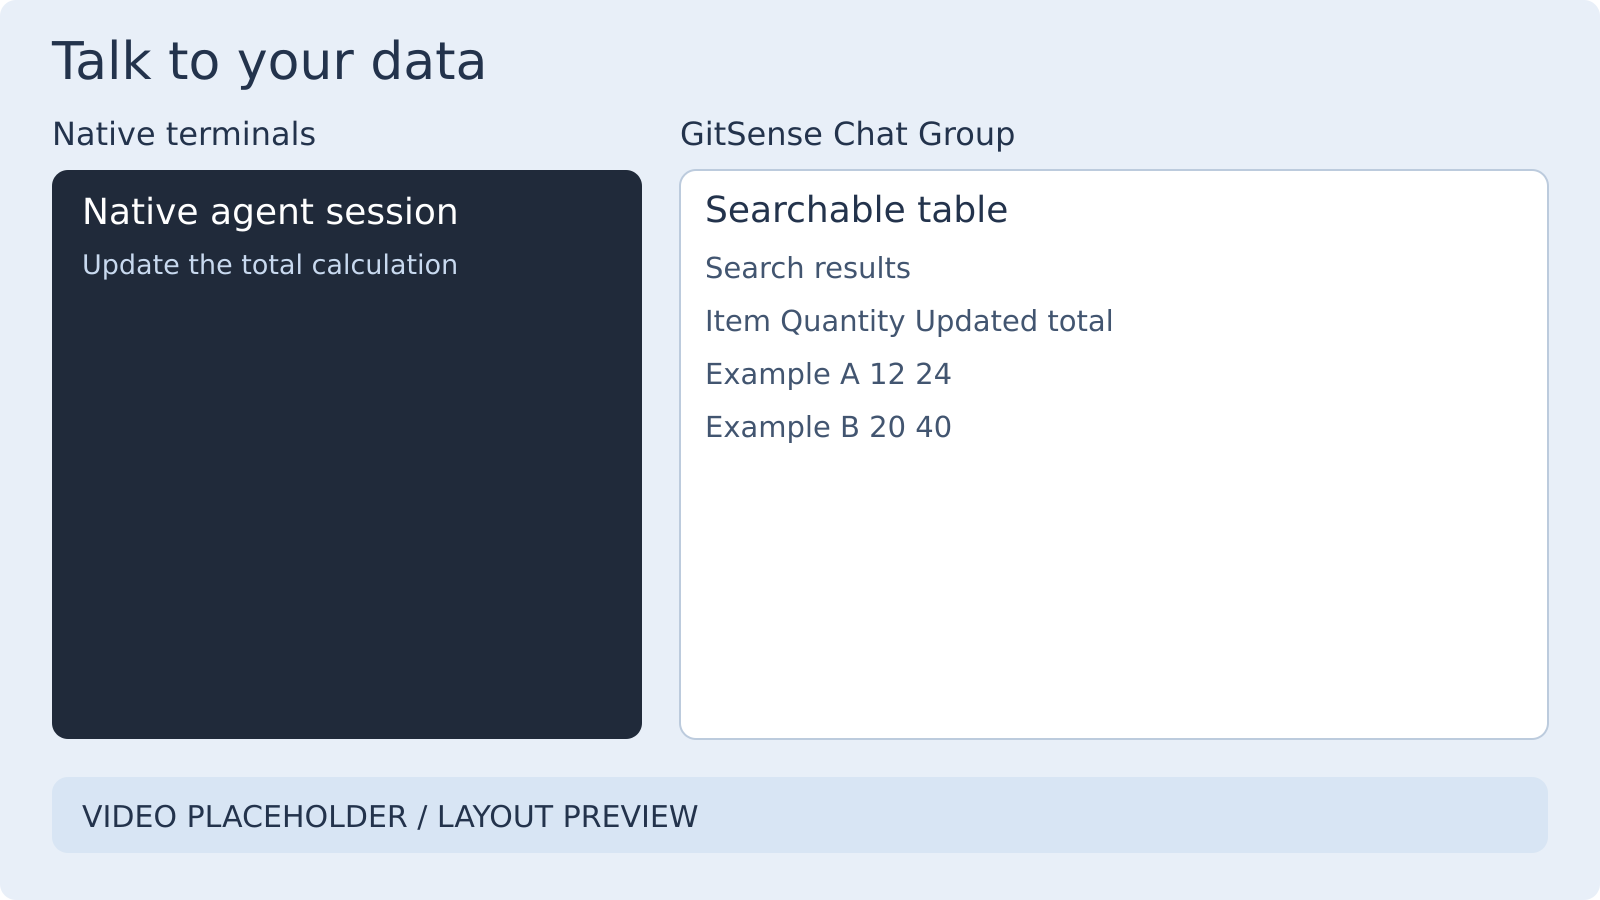
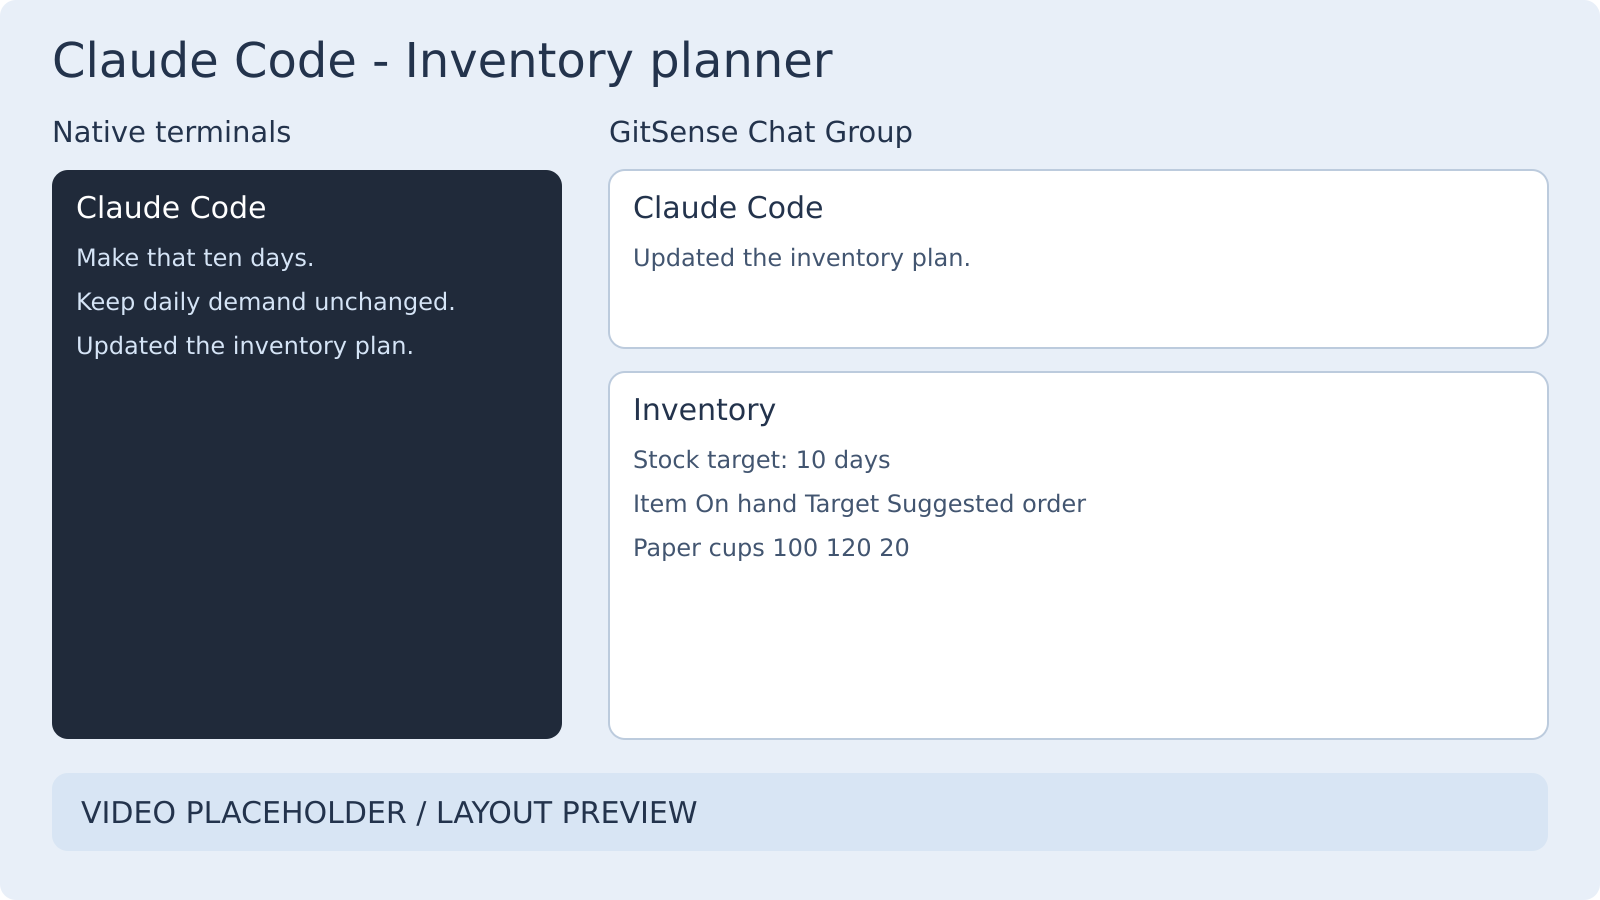
Show Claude Code and Codex collaboration demos

diff --git a/README-v2.md b/README-v2.md
@@ -32,33 +32,27 @@ You can also [build the CLI from source](https://github.com/gitsense/gsc-cli). S
 
 ## Same agents. More ways to work together.
 
-Bring Claude Code, Codex, and OpenCode into one Group, a shared space in GitSense Chat. The agents stay in their own terminals. In Chat, you can look through what they share and make choices for them to read when you're ready.
+Bring Claude Code and Codex into one Group, a shared space in GitSense Chat. Your agents stay in their own terminals. Their replies also appear in Chat, alongside the tables, notes, and diffs you work with together.
 
-<img src="assets/readme-v2/work-together-overview-placeholder.png" alt="Layout preview: Claude Code, Codex, and OpenCode terminals on the left, with a table above a checklist and diff in GitSense Chat on the right." width="100%">
+<img src="assets/readme-v2/work-together-overview-placeholder.png" alt="Layout preview: Claude Code and Codex in their native terminals on the left. In the Group on the right, Claude Code's mirrored reply sits beside an inventory table in the top row, and Codex's mirrored reply sits beside a file checklist and diff in the row below." width="100%">
 
 *Video placeholders. Recordings to come.*
 
 <table>
   <tr>
     <td width="38%" valign="middle">
-      <h3>Talk to your data</h3>
-      <p>Ask your agent to change how a total is calculated, then check the updated column in Chat. The agent can share the table without printing every row in its reply.</p>
+      <h3>Claude Code - Inventory planner</h3>
+      <p>Ask Claude Code to plan for seven days of stock, then say, "Make that ten days. Keep the daily-demand estimates unchanged." Claude reruns the calculation. You can check what needs reordering in the same table card without it printing every row in its reply.</p>
     </td>
-    <td width="62%"><img src="assets/readme-v2/work-together-table-placeholder.png" alt="Video placeholder: A terminal request to update a calculation beside the updated table in Chat." width="100%"></td>
+    <td width="62%"><img src="assets/readme-v2/work-together-table-placeholder.png" alt="Video placeholder: Claude Code gets a request to plan for ten days of stock, and the inventory card shows the recalculated quantities." width="100%"></td>
   </tr>
   <tr>
     <td width="38%" valign="middle">
-      <h3>Type less. Answer more.</h3>
-      <p>Pick one option or check several in a Notes card. Change your choices as you go. When you're ready, tell the same agent in its terminal, "Read my answers."</p>
+      <h3>Codex - Code reviewer</h3>
+      <p>Check the files you want to review and choose Latest commit or Whole branch for each. Ask Codex to read your choices and show the changes. Change the scope or select another file, then ask Codex to update the same diff card.</p>
+      <p>Use the diff menu to copy a command or open the comparison in your editor, depending on your setup.</p>
     </td>
-    <td width="62%"><img src="assets/readme-v2/work-together-choices-placeholder.png" alt="Video placeholder: Saved choices in a Notes card beside the user's request to read them in the terminal." width="100%"></td>
-  </tr>
-  <tr>
-    <td width="38%" valign="middle">
-      <h3>Review a diff with your own tools</h3>
-      <p>Ask what changed and inspect the diff in Chat. Use the card's diff menu to copy a command or open the comparison in your editor, depending on your setup.</p>
-    </td>
-    <td width="62%"><img src="assets/readme-v2/work-together-diff-placeholder.png" alt="Video placeholder: A diff in Chat with the card's diff menu open." width="100%"></td>
+    <td width="62%"><img src="assets/readme-v2/work-together-diff-placeholder.png" alt="Video placeholder: Codex uses saved file and scope choices from a checklist to update the diff card for hello.test.js." width="100%"></td>
   </tr>
 </table>
 

diff --git a/README.md b/README.md
@@ -32,33 +32,27 @@ You can also [build the CLI from source](https://github.com/gitsense/gsc-cli). S
 
 ## Same agents. More ways to work together.
 
-Bring Claude Code, Codex, and OpenCode into one Group, a shared space in GitSense Chat. The agents stay in their own terminals. In Chat, you can look through what they share and make choices for them to read when you're ready.
+Bring Claude Code and Codex into one Group, a shared space in GitSense Chat. Your agents stay in their own terminals. Their replies also appear in Chat, alongside the tables, notes, and diffs you work with together.
 
-<img src="assets/readme-v2/work-together-overview-placeholder.png" alt="Layout preview: Claude Code, Codex, and OpenCode terminals on the left, with a table above a checklist and diff in GitSense Chat on the right." width="100%">
+<img src="assets/readme-v2/work-together-overview-placeholder.png" alt="Layout preview: Claude Code and Codex in their native terminals on the left. In the Group on the right, Claude Code's mirrored reply sits beside an inventory table in the top row, and Codex's mirrored reply sits beside a file checklist and diff in the row below." width="100%">
 
 *Video placeholders. Recordings to come.*
 
 <table>
   <tr>
     <td width="38%" valign="middle">
-      <h3>Talk to your data</h3>
-      <p>Ask your agent to change how a total is calculated, then check the updated column in Chat. The agent can share the table without printing every row in its reply.</p>
+      <h3>Claude Code - Inventory planner</h3>
+      <p>Ask Claude Code to plan for seven days of stock, then say, "Make that ten days. Keep the daily-demand estimates unchanged." Claude reruns the calculation. You can check what needs reordering in the same table card without it printing every row in its reply.</p>
     </td>
-    <td width="62%"><img src="assets/readme-v2/work-together-table-placeholder.png" alt="Video placeholder: A terminal request to update a calculation beside the updated table in Chat." width="100%"></td>
+    <td width="62%"><img src="assets/readme-v2/work-together-table-placeholder.png" alt="Video placeholder: Claude Code gets a request to plan for ten days of stock, and the inventory card shows the recalculated quantities." width="100%"></td>
   </tr>
   <tr>
     <td width="38%" valign="middle">
-      <h3>Type less. Answer more.</h3>
-      <p>Pick one option or check several in a Notes card. Change your choices as you go. When you're ready, tell the same agent in its terminal, "Read my answers."</p>
+      <h3>Codex - Code reviewer</h3>
+      <p>Check the files you want to review and choose Latest commit or Whole branch for each. Ask Codex to read your choices and show the changes. Change the scope or select another file, then ask Codex to update the same diff card.</p>
+      <p>Use the diff menu to copy a command or open the comparison in your editor, depending on your setup.</p>
     </td>
-    <td width="62%"><img src="assets/readme-v2/work-together-choices-placeholder.png" alt="Video placeholder: Saved choices in a Notes card beside the user's request to read them in the terminal." width="100%"></td>
-  </tr>
-  <tr>
-    <td width="38%" valign="middle">
-      <h3>Review a diff with your own tools</h3>
-      <p>Ask what changed and inspect the diff in Chat. Use the card's diff menu to copy a command or open the comparison in your editor, depending on your setup.</p>
-    </td>
-    <td width="62%"><img src="assets/readme-v2/work-together-diff-placeholder.png" alt="Video placeholder: A diff in Chat with the card's diff menu open." width="100%"></td>
+    <td width="62%"><img src="assets/readme-v2/work-together-diff-placeholder.png" alt="Video placeholder: Codex uses saved file and scope choices from a checklist to update the diff card for hello.test.js." width="100%"></td>
   </tr>
 </table>
 
